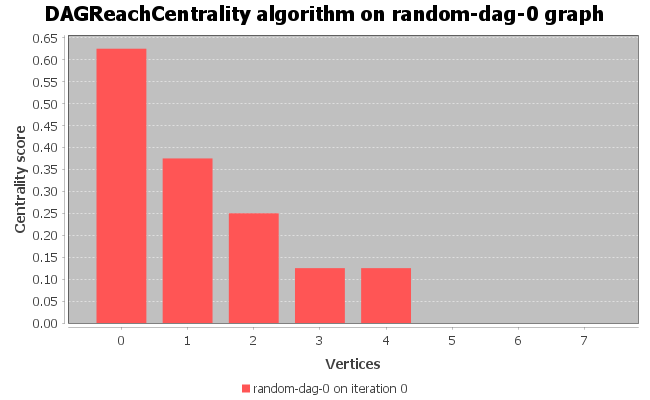
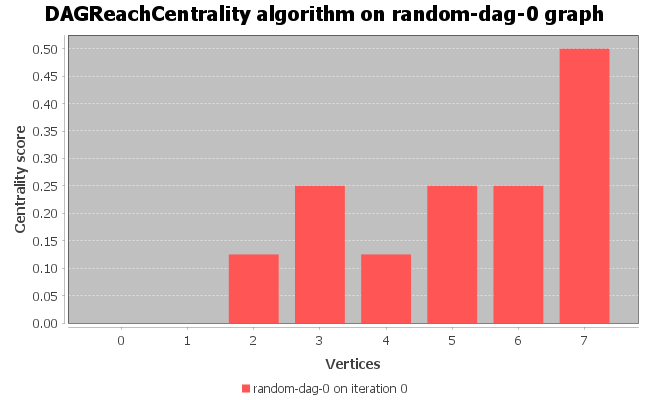
Implement reach centrality both ways

diff --git a/src/main/java/no/uib/mayarobbestad/dagcentrality/Main.java b/src/main/java/no/uib/mayarobbestad/dagcentrality/Main.java
@@ -43,9 +43,9 @@ public class Main {
     static ArrayList<String> graphDirectory = new ArrayList<>();
 
     // The centrality algorithms to be run
-    static final boolean DEGREE = false;
-    static final boolean INDEGREE = false;
-    static final boolean OUTDEGREE = false;
+    static final boolean DEGREE = true;
+    static final boolean INDEGREE = true;
+    static final boolean OUTDEGREE = true;
     static final boolean CLOSENESS = false;
     static final boolean INHARMONIC = false; // variation of closeness
     static final boolean OUTHARMONIC = false;
@@ -54,15 +54,16 @@ public class Main {
     static final boolean KATZ = false;
     static final boolean PAGERANK = false;
     static final boolean DAGPAGERANK = false;
-    static final boolean DAGREACH = true;
-    static final boolean DAGBETWEENNESS = false;
+    static final boolean DAGCANREACH = false;
+    static final boolean DAGREACHBY = false;
+    static final boolean DAGBETWEENNESS = true;
 
     static ArrayList<Integer> iterationsNeededPerAlgorithm = new ArrayList<>();
 
     static int numAlgorithms = 0;
 
     static int iteration = 0;
-    static boolean USEITERATIONS = true;
+    static boolean USEITERATIONS = false;
 
     // algorithm will run MAXITERATIONS - 1 times
     static int MAXITERATIONS = 1; // the number of times the algorithm will run, applicable for PageRank
@@ -193,7 +194,7 @@ public class Main {
                 for (Integer v : graphs.get(i).vertexSet()) {
 
                     builder.append(
-                            centralityAlgorithm.getClass().getSimpleName() + ","
+                            centralityAlgorithm.toString() + ","
                                     + graphName + ","
                                     + DEFAULTITERATIONS + ","
                                     + v + ","
@@ -213,7 +214,7 @@ public class Main {
                 String graphName = path.substring(path.lastIndexOf("/") + 1).replace(".gml", "");
                 for (Integer v : graphs.get(i).vertexSet()) {
                     builder.append(
-                            centralityAlgorithm.getClass().getSimpleName() + ","
+                            centralityAlgorithm.toString() + ","
                                     + graphName + ","
                                     + DEFAULTITERATIONS + ","
                                     + v + ","
@@ -233,7 +234,7 @@ public class Main {
                 String graphName = path.substring(path.lastIndexOf("/") + 1).replace(".gml", "");
                 for (Integer v : graphs.get(i).vertexSet()) {
                     builder.append(
-                            centralityAlgorithm.getClass().getSimpleName() + ","
+                            centralityAlgorithm.toString() + ","
                                     + graphName + ","
                                     + DEFAULTITERATIONS + ","
                                     + v + ","
@@ -406,17 +407,18 @@ public class Main {
             }
             numAlgorithms++;
         }
-        if (DAGREACH) {
+
+        if (DAGCANREACH) {
             iterationsNeededPerAlgorithm.add(numAlgorithms, DEFAULTITERATIONS);
             for (int i = 0; i < numGraphs; i++) {
                 VertexScoringAlgorithm<Integer, BigDecimal> centralityAlgorithm = new DAGReachCentrality<>(
-                        graphs.get(i), true);
+                        graphs.get(i), false, true);
                 StringBuilder builder = new StringBuilder();
                 String path = graphDirectory.get(i);
                 String graphName = path.substring(path.lastIndexOf("/") + 1).replace(".gml", "");
                 for (Integer v : graphs.get(i).vertexSet()) {
                     builder.append(
-                            centralityAlgorithm.getClass().getSimpleName() + ","
+                            centralityAlgorithm.toString() + ","
                                     + graphName + ","
                                     + DEFAULTITERATIONS + ","
                                     + v + ","
@@ -426,6 +428,28 @@ public class Main {
             }
             numAlgorithms++;
         }
+
+        if (DAGREACHBY) {
+            iterationsNeededPerAlgorithm.add(numAlgorithms, DEFAULTITERATIONS);
+            for (int i = 0; i < numGraphs; i++) {
+                VertexScoringAlgorithm<Integer, BigDecimal> centralityAlgorithm = new DAGReachCentrality<>(
+                        graphs.get(i), false, false);
+                StringBuilder builder = new StringBuilder();
+                String path = graphDirectory.get(i);
+                String graphName = path.substring(path.lastIndexOf("/") + 1).replace(".gml", "");
+                for (Integer v : graphs.get(i).vertexSet()) {
+                    builder.append(
+                            centralityAlgorithm.toString() + ","
+                                    + graphName + ","
+                                    + DEFAULTITERATIONS + ","
+                                    + v + ","
+                                    + centralityAlgorithm.getVertexScore(v) + "\n");
+                }
+                writer.write(builder.toString());
+            }
+            numAlgorithms++;
+        }
+
         if (DAGBETWEENNESS) {
             iterationsNeededPerAlgorithm.add(numAlgorithms, DEFAULTITERATIONS);
             for (int i = 0; i < numGraphs; i++) {

diff --git a/src/main/java/no/uib/mayarobbestad/dagcentrality/algorithms/DAGReachCentrality.java b/src/main/java/no/uib/mayarobbestad/dagcentrality/algorithms/DAGReachCentrality.java
@@ -20,11 +20,35 @@ public class DAGReachCentrality<V, E> implements VertexScoringAlgorithm<V, BigDe
     private Graph<V, E> graph;
     private Map<V, BigDecimal> scores;
     private boolean normalize;
+    private CentralityState state;
 
     public DAGReachCentrality(Graph<V, E> graph, boolean normalize) {
         this.graph = graph;
         this.scores = new HashMap<>();
         this.normalize = normalize;
+        this.state = CentralityState.REACH;
+        run();
+    }
+
+    /**
+     * When can reach is true, the centrality score is based on how many vertices a
+     * vertex can reach
+     * If it is false, then the centrality score is based on how many vertices the
+     * vertex has been reached by.
+     * 
+     * @param graph
+     * @param normalize
+     * @param canReach
+     */
+    public DAGReachCentrality(Graph<V, E> graph, boolean normalize, boolean canReach) {
+        this.graph = graph;
+        this.scores = new HashMap<>();
+        this.normalize = normalize;
+        if (canReach) {
+            this.state = CentralityState.REACH;
+        } else {
+            this.state = CentralityState.DEPENDENCY;
+        }
         run();
     }
 
@@ -60,6 +84,63 @@ public class DAGReachCentrality<V, E> implements VertexScoringAlgorithm<V, BigDe
             topologicalList.add(iterator.next());
         }
 
+        if (state == CentralityState.REACH) {
+            reach(copy, reached, topologicalList);
+        } else {
+            dependency(copy, reached, topologicalList);
+        }
+
+        System.out.println(reached);
+
+        for (V v : copy.vertexSet()) {
+            if (!normalize) {
+                BigDecimal score = new BigDecimal(reached.get(v).size());
+                scores.put(v, score);
+            }
+            if (normalize) {
+                BigDecimal n = new BigDecimal(copy.vertexSet().size());
+                BigDecimal score = new BigDecimal(reached.get(v).size());
+                scores.put(v, score.divide(n));
+            }
+        }
+    }
+
+    /**
+     * This method finds all the vertices w that can reach vertex v.
+     * Vertex v keeps track of all the vertices that can reach this vertex
+     * 
+     * @param copy
+     * @param reached
+     * @param topologicalList
+     */
+    private void dependency(Graph<V, E> copy, Map<V, Set<V>> reached, List<V> topologicalList) {
+        for (int i = 0; i < topologicalList.size(); i++) {
+            V v = topologicalList.get(i);
+            // go through all the vertices w that can reach v
+            for (E edge : copy.outgoingEdgesOf(v)) {
+                V w = Graphs.getOppositeVertex(copy, edge, v);
+                if (reached.get(w).contains(v)) {
+                    continue;
+                } else {
+                    Set<V> temp = reached.get(w);
+                    // if w can reach vertex v, then w can also reach the vertices v can reach
+                    temp.addAll(reached.get(v));
+                    temp.add(v);
+                    reached.put(w, temp);
+                }
+            }
+        }
+    }
+
+    /**
+     * This method finds all the vertices w that vertex v can reach.
+     * Vertex v keeps track of all the vertices it can reach
+     * 
+     * @param copy
+     * @param reached
+     * @param topologicalList
+     */
+    private void reach(Graph<V, E> copy, Map<V, Set<V>> reached, List<V> topologicalList) {
         for (int i = topologicalList.size() - 1; i > 0; i--) {
             V v = topologicalList.get(i);
             // go through all the vertives w that can reach v
@@ -76,18 +157,23 @@ public class DAGReachCentrality<V, E> implements VertexScoringAlgorithm<V, BigDe
                 }
             }
         }
-        System.out.println(reached);
+    }
 
-        for (V v : copy.vertexSet()) {
-            if (!normalize) {
-                BigDecimal score = new BigDecimal(reached.get(v).size());
-                scores.put(v, score);
-            }
-            if (normalize) {
-                BigDecimal n = new BigDecimal(copy.vertexSet().size());
-                BigDecimal score = new BigDecimal(reached.get(v).size());
-                scores.put(v, score.divide(n));
-            }
+    @Override
+    public String toString() {
+        switch (state) {
+
+            case CentralityState.REACH:
+                return "Reach Centrality";
+            case CentralityState.DEPENDENCY:
+                return "Reach by Centrality (dependency)";
+            default:
+                return "Default Reach Centrality";
         }
+    }
+
+    private enum CentralityState {
+        REACH,
+        DEPENDENCY
     }
 }

diff --git a/src/main/java/no/uib/mayarobbestad/dagcentrality/algorithms/DegreeCentrality.java b/src/main/java/no/uib/mayarobbestad/dagcentrality/algorithms/DegreeCentrality.java
@@ -148,7 +148,16 @@ public class DegreeCentrality<V, E> implements VertexScoringAlgorithm<V, Double>
 
     @Override
     public String toString() {
-        return "Degree Centrality";
+        switch (state) {
+            case CentralityState.ALL:
+                return "Degree Centrality";
+            case CentralityState.INDEGREE:
+                return "In-Degree Centrality";
+            case CentralityState.OUTDEGREE:
+                return "Out-Degree Centrality";
+            default:
+                return "Default Degree Centrality";
+        }
     }
 
     private enum CentralityState {
